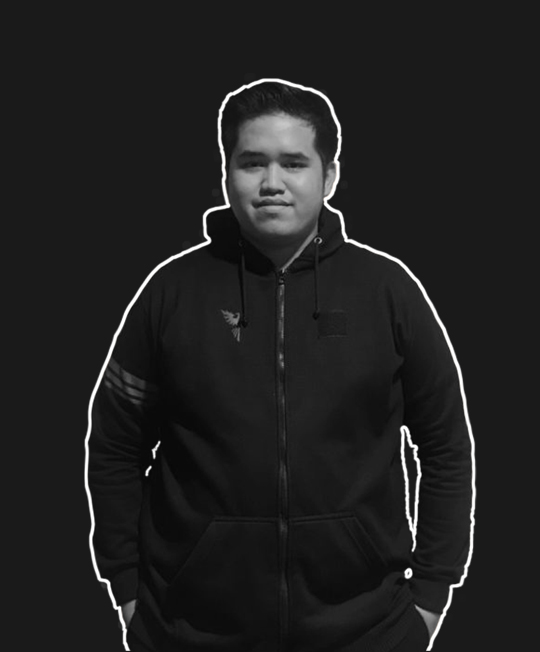
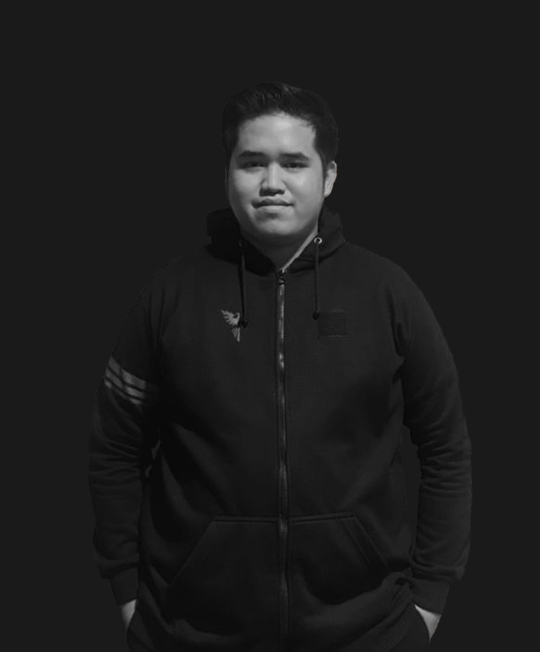
fix image and background image

diff --git a/index.html b/index.html
@@ -84,7 +84,7 @@
 <!-- END: navbar -->
 
 <!-- START: home -->
-<section class="home-area element-cover-bg" id="home" style="background-image:url(img/home.jpg)">
+<section class="home-area element-cover-bg" id="home" style="background-image:url(img/home-2.jpg)">
   <div class="container h-100">
     <div class="row h-100 align-items-center justify-content-center">
       <div class="col-12 col-lg-8 home-content text-center">
